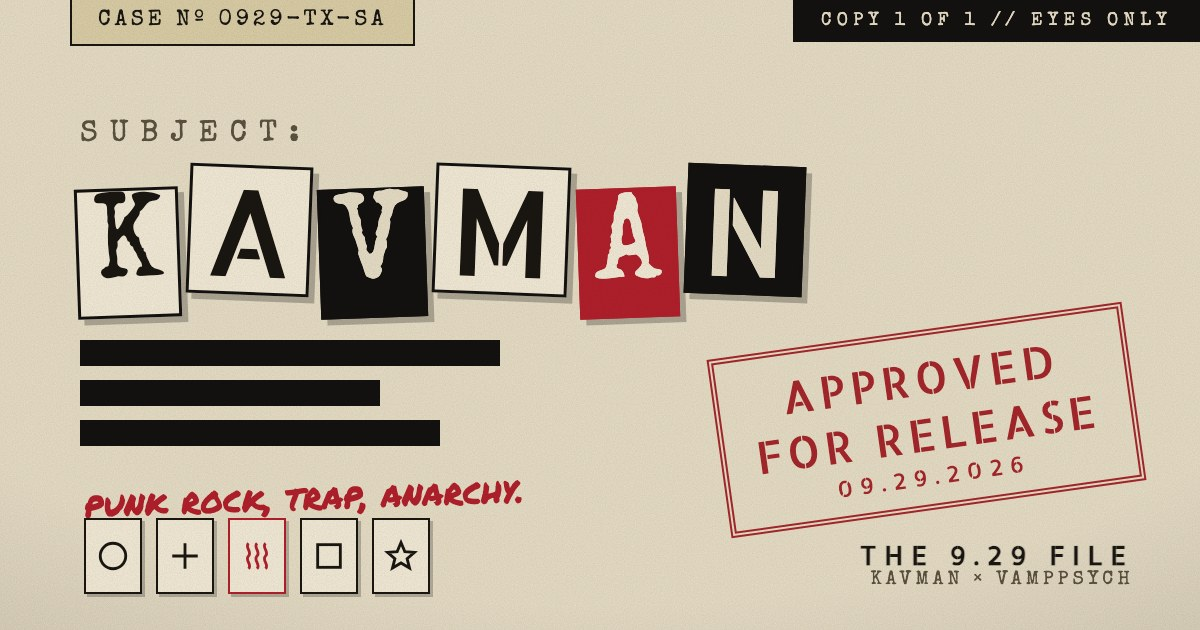
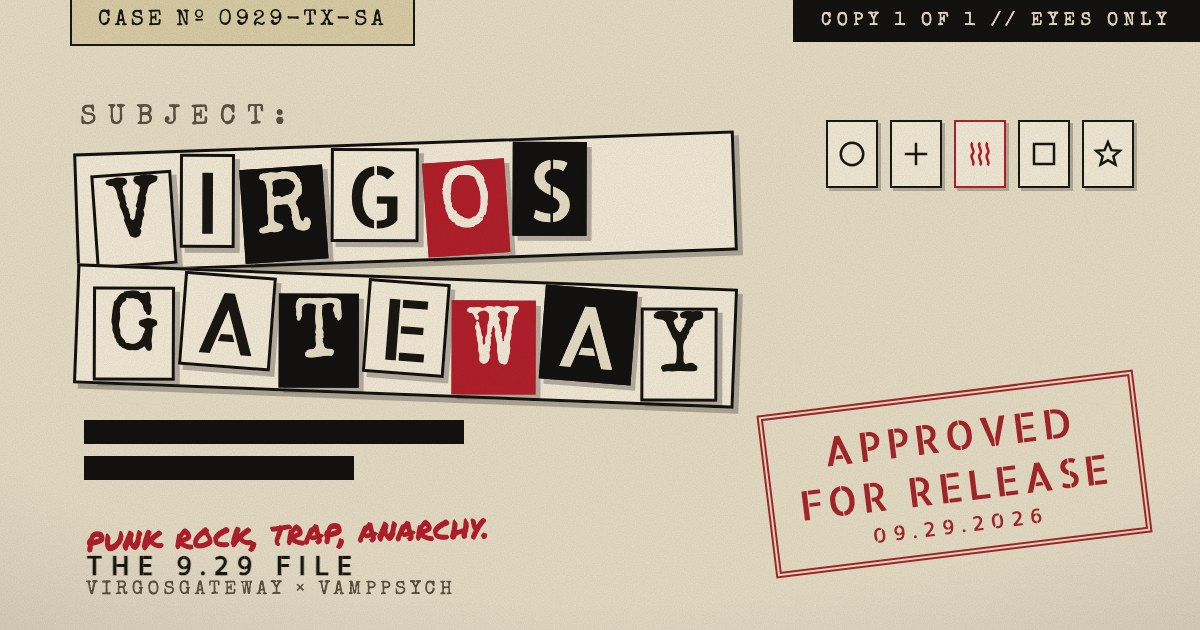
gateway: the actual VIRGOSGATEWAY content + card

Changed region(s): [[0.0617, 0.1508, 0.9867, 0.9651]]

diff --git a/gateway/index.html b/gateway/index.html
@@ -8,9 +8,9 @@
 <title>THE 9.29 FILE</title>
 <meta property="og:type" content="website">
 <meta property="og:title" content="THE 9.29 FILE">
-<meta property="og:description" content="SUBJECT: KAVMAN. The world, the look, the machine, the dates. Punk rock trap anarchy. Approved for release 09.29.2026.">
-<meta property="og:image" content="https://carlo72400-pixel.github.io/rise/929/preview.jpg">
-<meta property="og:url" content="https://carlo72400-pixel.github.io/rise/929/">
+<meta property="og:description" content="SUBJECT: VIRGOSGATEWAY. The world, the look, the machine, the dates. Punk rock trap anarchy. Approved for release 09.29.2026.">
+<meta property="og:image" content="https://carlo72400-pixel.github.io/gateway/preview.jpg">
+<meta property="og:url" content="https://carlo72400-pixel.github.io/gateway/">
 <meta name="twitter:card" content="summary_large_image">
 <meta name="theme-color" content="#e9dfc8">
 <link rel="preconnect" href="https://fonts.googleapis.com">
@@ -73,13 +73,14 @@ header{padding:44px 0 30px;position:relative}
 .caseno b{color:var(--ink)}
 h1{
   font-family:var(--type);font-weight:400;text-transform:uppercase;
-  font-size:clamp(1.9rem,8.6vw,3.3rem);line-height:1.06;margin:14px 0 6px;
+  font-size:clamp(1.6rem,7.4vw,2.9rem);line-height:1.14;margin:14px 0 6px;
   letter-spacing:.01em;
 }
-h1 .lbl{display:block;font-size:.42em;letter-spacing:.34em;color:var(--dim)}
+h1 .lbl{display:block;font-size:.46em;letter-spacing:.34em;color:var(--dim);margin-bottom:.2em}
 /* ransom letters */
+.ransom{display:block}
 .ransom span{
-  display:inline-block;padding:.02em .12em;margin:.04em .015em;
+  display:inline-block;padding:.02em .12em;margin:.05em .015em;
   border:1.5px solid var(--xerox);background:#f4ecd8;
   box-shadow:2px 2px 0 rgba(26,23,18,.28);
 }
@@ -213,11 +214,12 @@ footer a{color:var(--dim)}
   <p class="caseno">CASE Nº <b>0929-TX-SA</b> &nbsp;·&nbsp; OPENED AUG 18 2026</p>
   <h1>
     <span class="lbl">SUBJECT:</span>
-    <span class="ransom"><span>K</span><span>A</span><span>V</span><span>M</span><span>A</span><span>N</span></span>
+    <span class="ransom"><span>V</span><span>I</span><span>R</span><span>G</span><span>O</span><span>S</span></span>
+    <span class="ransom"><span>G</span><span>A</span><span>T</span><span>E</span><span>W</span><span>A</span><span>Y</span></span>
   </h1>
-  <p class="sub">The takeover plan stands. This is the drop plan that slots into it: the world, the look, the machine, the dates. Six weeks, then the file leaks.</p>
+  <p class="sub">The drop plan: the world, the look, the machine, the dates. Six weeks, then the file leaks.</p>
   <div class="stampbox"><s>CLASSIFIED</s>APPROVED FOR RELEASE 09.29.26</div>
-  <p class="penright">punk rock, trap, anarchy.<small>God 1st. Always.</small></p>
+  <p class="penright">punk rock, trap, anarchy.<small>"universal divinity receives alignment."</small></p>
   <div class="datestrip"><span>AUG 18 2026</span><span>→</span><span>SEPT 29 2026, TUESDAY</span></div>
 </header>
 
@@ -235,17 +237,18 @@ footer a{color:var(--dim)}
 
   <div class="doc">
     <p><b>The references are real, that is the whole trick.</b> The Gateway papers sit in the CIA's own reading room: a 1983 analysis of training a mind to leave the body, page 25 famously missing. The government ran remote-viewing programs for twenty-plus years before shutting them down in '95. Agenda 2030 is a published schedule. Blue Beam is the name somebody gave the sky show. We are not inventing a villain. We are quoting one. Real scans from the reading room are free props.</p>
+    <p><b>And the name was already his.</b> The program was called GATEWAY. The artist is called VIRGOSGATEWAY. He is not referencing the file. He walked out of it and kept the name.</p>
   </div>
 
   <div class="lore">
     <span class="h">THE STORY (every caption speaks in this voice)</span>
-    The Program found kids born with something extra and dimmed the switch before they learned what it was. Intake at age <button class="rdx" type="button" data-r="8">████</button>. Tones, tests, suppression. One subject hummed through every session, and the machines never recorded him clean: every tape came back static except the audio, and the audio came back <button class="rdx" type="button" data-r="music">██████</button>. The Program closed in the 90s and released the kids into the population. They are grown now. One of them is at large in <button class="rdx" type="button" data-r="San Antonio, TX">████ ████████</button>, and on 9.29 his file leaks. <span class="rdxhint">← tap the black</span>
+    The Program found kids born with something extra and dimmed the switch before they learned what it was. Intake at age <button class="rdx" type="button" data-r="8">████</button>. Tones, tests, suppression. One subject never recorded clean: every tape came back static except audio channel 2, and channel 2 came back <button class="rdx" type="button" data-r="music">██████</button>. The Program closed in the 90s and released the kids into the population. They are grown now. One of them kept the Program's name, learned the console, and runs the experiments on himself. Producer. Engineer. Risk taker. He is at large in <button class="rdx" type="button" data-r="San Antonio, TX">████ ████████</button>, and on 9.29 his file leaks. <span class="rdxhint">← tap the black</span>
   </div>
 
   <div class="doc">
     <h3>THE CAMPAIGN IN ONE LINE: <span class="r">the drop is a leak</span></h3>
     <p>Every post is a page from the file. Every teaser is recovered footage. Release day is full disclosure. Story voice always, news voice never: the file claims a story, not a headline.</p>
-    <p><b>And it arms October.</b> The same file pages wheat-paste onto Austin poles during both ACL weekends. The drop's look IS the street campaign.</p>
+    <p><b>And the look walks.</b> The same file pages wheat-paste around the city and ride to every show he plays. The drop's look IS the street campaign.</p>
   </div>
 </section>
 
@@ -271,9 +274,9 @@ footer a{color:var(--dim)}
   <div class="doc">
     <h3>Rules of the look</h3>
     <ul>
-      <li>Four colors max. The whole identity prints on a toner budget, which is the point.</li>
+      <li>Four colors max. The whole identity prints on a toner budget, which is the point. The stamp red already matches his red-on-black logo, so the file sits under his existing brand instead of fighting it.</li>
       <li>Type: the typewriter (Special Elite), the stencil (Allerta), the handler's pen (marker), and real cut letters, made by hand and scanned once.</li>
-      <li><b>Cover art gets shot, not generated:</b> a real folder, a real paperclipped portrait, scanned dirty. Stamps land in Photoshop. Singles reuse inner pages so the catalog reads as one file on the DSP grid.</li>
+      <li><b>Cover art gets shot, not generated:</b> a real manila folder, or a reel-to-reel tape box stenciled GATEWAY SESSION TAPES, paperclipped portrait, scanned dirty. Stamps land in Photoshop. Singles reuse inner pages so the catalog reads as one file on the DSP grid.</li>
       <li>No real agency seals on props or merch (federal seal rules are a real thing). Stamps and redactions carry the look without them.</li>
     </ul>
   </div>
@@ -290,12 +293,13 @@ footer a{color:var(--dim)}
       <ul>
         <li><b>FILE 001, INTAKE.</b> Intake form, Zener score sheet reading 20/25 with "chance is 5" circled, handler note: <b>"subject hums during testing. recommend suppression."</b></li>
         <li><b>FILE 002, INCIDENT.</b> Suppression session blackout. Every recorder returned static except audio channel 2, which returned music. Recommend termination of study.</li>
-        <li><b>FILE 003, CLOSURE.</b> Program shutdown memo, subjects released. Final line unredacted: <b>SUBJECT K. STATUS: AT LARGE. NEXT TRANSMISSION 09.29.26.</b></li>
+        <li><b>FILE 003, CLOSURE.</b> Program shutdown memo, subjects released. Final line unredacted: <b>SUBJECT V. STATUS: AT LARGE. NEXT TRANSMISSION 09.29.26.</b></li>
+        <li><b>Every file carries one KNOWN ASSOCIATES page:</b> the credits list with names redacted and handles legible. The flex does the marketing on its own.</li>
       </ul>
     </div>
     <div class="doc">
       <h3><span class="fcode">F2</span> · THE FOOTAGE <span class="r">15-30s recovered tape</span></h3>
-      <p>CCTV high angle, timecode burn, nightvision green. Lights fail when he walks past. The camera glitches when it lands on his face. Objects move a frame too late. Graded and broken with the VP packs.</p>
+      <p>CCTV high angle, timecode burn, nightvision green. Lights fail when he walks past. The camera glitches when it lands on his face. And in one tape he is on the wrong side of the glass, running the console himself: the subject became the engineer. Graded and broken with the VP packs.</p>
     </div>
     <div class="smpte" aria-hidden="true"></div>
     <div class="doc">
@@ -303,13 +307,13 @@ footer a{color:var(--dim)}
       <p>A slate cuts in mid-scroll: WE INTERRUPT THIS PROGRAM. Our own alarm tone from the sound bank, not the real EAS tones (those get clips pulled). Snippet hits over static. Final week these become the nightly countdown.</p>
     </div>
     <div class="doc">
-      <h3><span class="fcode">F4</span> · THE RISE <span class="r">the human layer</span></h3>
-      <p>The docuseries keeps rolling like the takeover page says, and this drop's making-of is episode fuel. The lore never touches the docu: file world on the grid, real world in the series. That contrast is what makes both land.</p>
+      <h3><span class="fcode">F4</span> · THE REAL <span class="r">the human layer</span></h3>
+      <p>Studio clips, console hands, live sets, the homies. The lore never touches this layer: file world on the grid, real world in between. That contrast is what makes both land.</p>
     </div>
   </div>
 
   <div class="doc torn">
-    <p><b>Cadence floor from Sept 7:</b> three posts a week. One FILE or BROADCAST, one FOOTAGE, one real one (docu clip, live clip, photo). Everything cut in batches on shoot days, nothing made day-of.</p>
+    <p><b>Cadence floor from Sept 7:</b> three posts a week. One FILE or BROADCAST, one FOOTAGE, one REAL. Everything cut in batches on shoot days, nothing made day-of.</p>
   </div>
 </section>
 
@@ -319,41 +323,40 @@ footer a{color:var(--dim)}
 
   <div class="doc">
     <ul>
-      <li><b>LOOK A, THE PROGRAM.</b> Bare room, one hard top light, locked CCTV angle. Zener test, wires, strobe. The nosebleed at the peak. FX6 on sticks, controlled room.</li>
+      <li><b>LOOK A, THE LISTENING ROOM.</b> A government studio: reel-to-reel, oscilloscope, VU meters pinning when his hands touch the faders, wires to the temples, Zener cards, strobe. The nosebleed at the peak. FX6 on sticks, controlled room.</li>
       <li><b>LOOK B, AT LARGE.</b> Handheld night run: the homies as grown subjects, streets, pasting his own file over ads, the folder burning. Compact rigs in the crowd.</li>
       <li><b>THE CUT.</b> Intercut A and B. The tape degrades as the ability peaks, and the only clean channel is the song. End slate: <b>SUBJECT AT LARGE. LAST KNOWN LOCATION: SAN ANTONIO, TX.</b></li>
       <li><b>CASTING.</b> Everybody grown. The kids aged out: that is the lore, and it keeps a set about experiments on kids clean of actual kids.</li>
-      <li><b>PROPS, UNDER $150.</b> Folders, printed docs, thrift-store CRT, home-printed Zener deck, medical wristbands, fake blood, flour paste. Broke on purpose, that is the genre.</li>
+      <li><b>PROPS, UNDER $150.</b> Folders, printed docs, thrift-store CRT, home-printed Zener deck, medical wristbands, fake blood, flour paste. His real console dresses the lab. Broke on purpose, that is the genre.</li>
     </ul>
   </div>
 </section>
 
 <section>
   <div class="shead"><span class="snum">04</span><h2 class="stitle">The Dates</h2></div>
-  <p class="stag">takeover dates hold. new ones slot between.</p>
+  <p class="stag">six weeks. everything gets a date.</p>
 
   <div class="doc cal">
     <div class="row"><span class="when">AUG 22</span><span class="what"><b>Decisions locked</b> (section 05). File kit built, cover shot.</span></div>
-    <div class="row"><span class="when">SEPT 01</span><span class="what"><b>Distro live.</b> Takeover date, holds everything.</span></div>
-    <div class="row"><span class="when">SEPT 05</span><span class="what"><b>Masters final, handed off.</b> Ten Austin doors emailed.</span></div>
+    <div class="row"><span class="when">SEPT 01</span><span class="what"><b>9.29 locked in the pipeline:</b> release scheduled through EMPIRE / the distro, date confirmed on DSPs.</span></div>
+    <div class="row"><span class="when">SEPT 05</span><span class="what"><b>Masters final, handed off.</b> Snippets, visualizer, and the upload all hang on it.</span></div>
     <div class="row"><span class="when">SEPT 07</span><span class="what"><b>TRANSMISSION 001 posts.</b> No caption. No explanation.</span></div>
-    <div class="row"><span class="when">SEPT 08</span><span class="what"><b>Drop uploaded to distro. Pre-save live,</b> link in both bios.</span></div>
-    <div class="row"><span class="when">SEPT 12</span><span class="what"><b>EPK day (takeover date), stacked:</b> press setups double as LOOK A lab plates.</span></div>
+    <div class="row"><span class="when">SEPT 08</span><span class="what"><b>Pre-save live,</b> link in both bios.</span></div>
+    <div class="row"><span class="when">SEPT 12</span><span class="what"><b>Press day, stacked:</b> cover extras + LOOK A listening-room plates for teasers.</span></div>
     <div class="row"><span class="when">SEPT 14</span><span class="what"><b>FILE 001 · INTAKE</b> posts.</span></div>
-    <div class="row"><span class="when">SEPT 15</span><span class="what"><b>SXSW application in</b> (takeover date).</span></div>
     <div class="row"><span class="when">SEPT 19</span><span class="what"><b>VIDEO DAY.</b> Both looks, one day. Teaser pulls same week.</span></div>
     <div class="row"><span class="when">SEPT 21</span><span class="what"><b>FILE 002 · INCIDENT</b> + first open snippet.</span></div>
+    <div class="row"><span class="when">SEPT 22</span><span class="what"><b>Virgo season ends. GATEWAY WEEK begins:</b> the gateway is closing, and the countdown says so.</span></div>
     <div class="row"><span class="when">SEPT 24</span><span class="what"><b>FILE 003 · CLOSURE.</b> The date goes public unredacted.</span></div>
-    <div class="row"><span class="when">SEPT 25-28</span><span class="what"><b>Countdown:</b> numbers-station stories nightly, paste run in S.A. (paste where it peels clean).</span></div>
+    <div class="row"><span class="when">SEPT 25-28</span><span class="what"><b>Countdown:</b> numbers-station stories nightly, paste run (paste where it peels clean).</span></div>
     <div class="row big"><span class="when">SEPT 29</span><span class="what"><b>FULL DISCLOSURE.</b> Tape live, full file posted unredacted, broadcast visualizer out. A Tuesday, on purpose: leaks don't wait for Friday.</span></div>
     <div class="row"><span class="when">OCT 01</span><span class="what"><b>THE VIDEO drops.</b> Second hit of the week.</span></div>
-    <div class="row"><span class="when">OCT 2-4</span><span class="what"><b>Austin, weekend one,</b> with a three-day-old drop and a pocket full of paste pages.</span></div>
   </div>
 </section>
 
 <section>
-  <div class="shead"><span class="snum">05</span><h2 class="stitle">Your Court</h2></div>
-  <p class="stag">kavman decides, by aug 22</p>
+  <div class="shead"><span class="snum">05</span><h2 class="stitle">His Court</h2></div>
+  <p class="stag">virgosgateway decides, by aug 22</p>
 
   <div class="doc">
     <ul class="court">
@@ -361,16 +364,17 @@ footer a{color:var(--dim)}
       <li><b>Body.</b> What lands 9.29: single with the world attached, EP, or full tape.</li>
       <li><b>Focus track</b> for THE VIDEO.</li>
       <li><b>Masters to me by Sept 5.</b> Snippets, visualizer, and the upload all hang on it.</li>
-      <li><b>Voice memos for the file pages:</b> bars, dates, names to bury in the redactions. The lore should quote you.</li>
-      <li><b>The stagger:</b> tape 9.29 + video Oct 1 (two hits in one week, rolling straight into Austin), or collapse to one day. I vote stagger.</li>
+      <li><b>The pipeline.</b> Confirm 9.29 goes through EMPIRE / the partner channel, and who clicks upload, by Sept 1.</li>
+      <li><b>Voice memos for the file pages:</b> bars, dates, names to bury in the redactions. The lore should quote him.</li>
+      <li><b>The stagger:</b> tape 9.29 + video Oct 1 (two hits in one week), or collapse to one day. I vote stagger.</li>
     </ul>
   </div>
 </section>
 
 <section>
-  <div class="shead"><span class="snum">06</span><h2 class="stitle">The Deal</h2></div>
+  <div class="shead"><span class="snum">06</span><h2 class="stitle">The Trade</h2></div>
   <div class="doc">
-    <p><b>Same line as the takeover:</b> you own the music, I own the footage and stills, we both post everything. This is partnership, not an invoice. The campaign machine lives at <a href="../">the takeover page</a>; this file is the September engine inside it.</p>
+    <p><b>One line:</b> he owns the music, I own the footage and stills, we both post everything. Partnership, not an invoice.</p>
   </div>
 </section>
 
